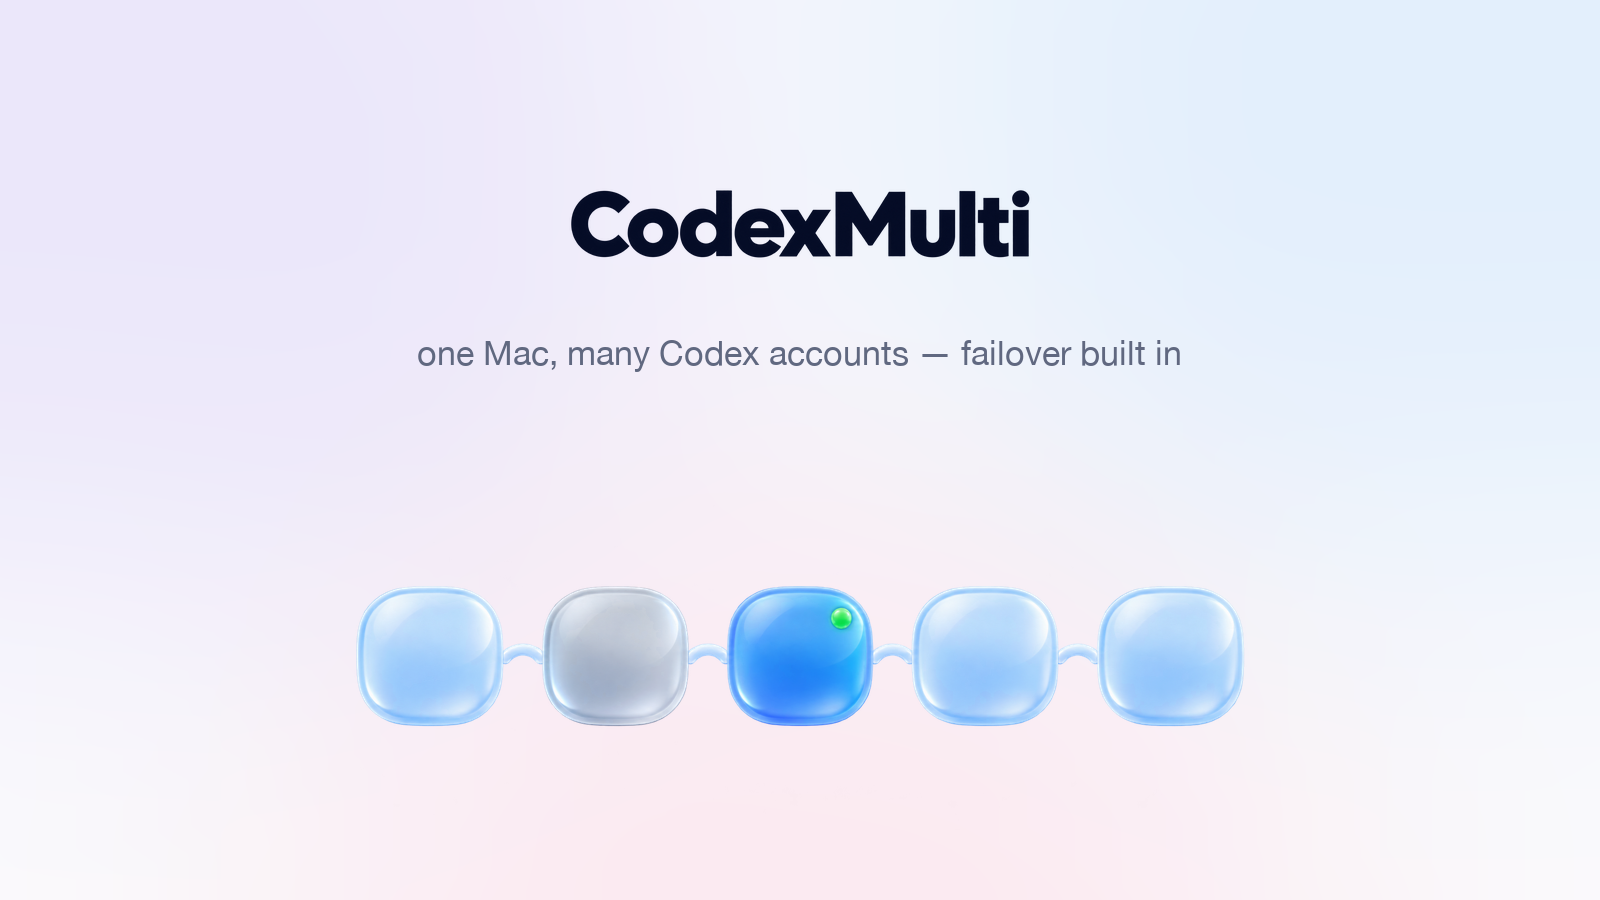
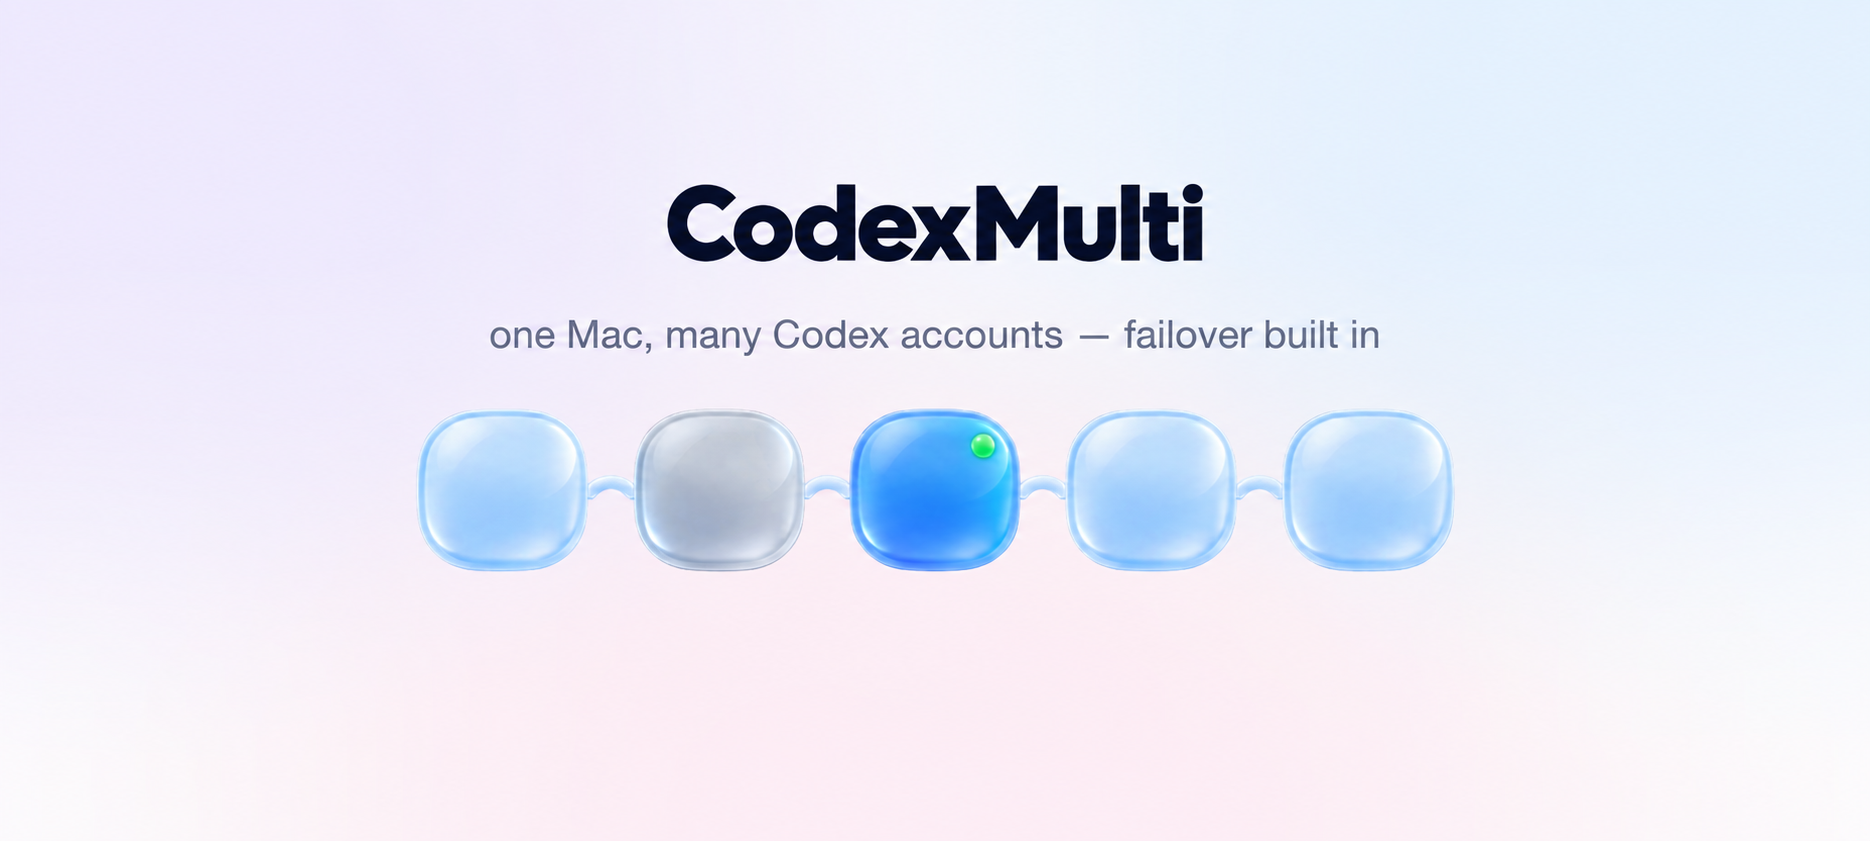
Compact the original hero and fill the README width

Changed region(s): [[0.2188, 0.4637, 0.7812, 0.8347], [0.3438, 0.2164, 0.6562, 0.3092], [0.25, 0.371, 0.75, 0.4328]]

diff --git a/README.md b/README.md
@@ -1,7 +1,7 @@
 # CodexMulti
 
 <p align="center">
-  <img src="assets/hero.png" width="720" alt="CodexMulti — one Mac, many Codex accounts, with automatic failover">
+  <img src="assets/hero.png" width="100%" alt="CodexMulti — one Mac, many Codex accounts, with automatic failover">
 </p>
 
 **When one Codex account hits its limit, keep going with the next.**
